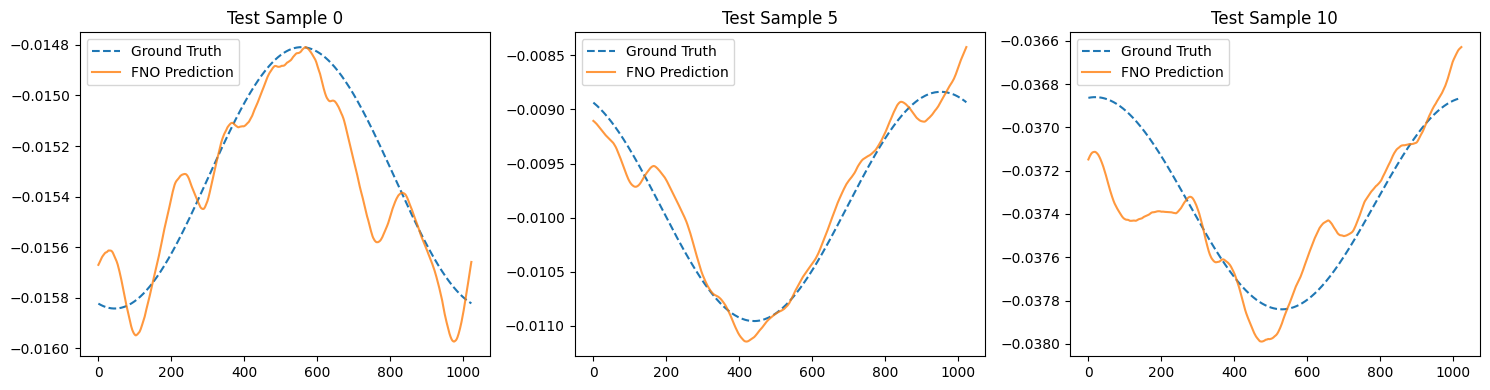
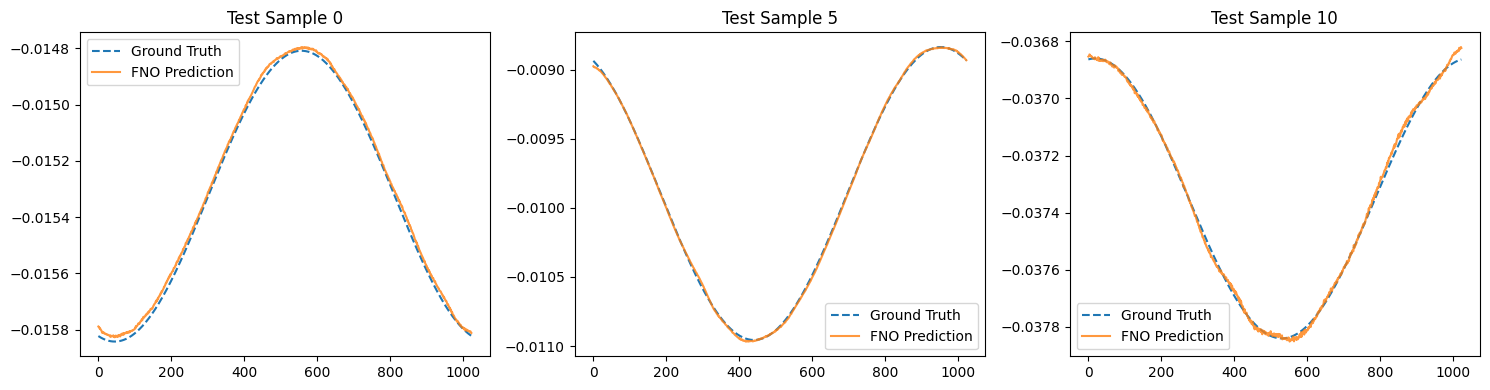
docs(examples): Update FNO prediction after spectral-model fixes

diff --git a/docs/examples/02_fno_burgers.md b/docs/examples/02_fno_burgers.md
@@ -222,30 +222,24 @@ for epoch in range(num_epochs):
 
 **Output:**
 ```bash
-Epoch 010 | loss=1.128e-01 | test rel L2=2.856e-01
-Epoch 020 | loss=3.150e-01 | test rel L2=4.586e-01
-Epoch 030 | loss=2.793e-01 | test rel L2=2.048e-01
-Epoch 040 | loss=3.851e-02 | test rel L2=1.060e-01
-Epoch 050 | loss=1.579e-01 | test rel L2=2.221e-01
-Epoch 060 | loss=1.277e-01 | test rel L2=1.172e-01
-Epoch 070 | loss=1.162e-01 | test rel L2=8.537e-02
-Epoch 080 | loss=7.651e-02 | test rel L2=1.291e-01
-Epoch 090 | loss=6.666e-02 | test rel L2=1.626e-01
-Epoch 100 | loss=1.888e-01 | test rel L2=9.952e-02
+Epoch 010 | loss=6.213e-02 | test rel L2=1.463e-01
+Epoch 020 | loss=4.651e-01 | test rel L2=2.615e-01
+Epoch 030 | loss=1.239e-01 | test rel L2=1.757e-01
+Epoch 040 | loss=2.210e-02 | test rel L2=4.644e-02
+Epoch 050 | loss=4.457e-02 | test rel L2=1.503e-01
+Epoch 060 | loss=1.005e-01 | test rel L2=9.208e-02
+Epoch 070 | loss=3.417e-02 | test rel L2=1.216e-01
 ...
-Epoch 710 | loss=1.385e-02 | test rel L2=2.693e-02
-Epoch 720 | loss=1.055e-02 | test rel L2=2.645e-02
-Epoch 730 | loss=1.144e-02 | test rel L2=2.663e-02
-Epoch 740 | loss=1.453e-02 | test rel L2=2.636e-02
-Epoch 750 | loss=1.130e-02 | test rel L2=2.634e-02
-Epoch 760 | loss=1.232e-02 | test rel L2=2.632e-02
-Epoch 770 | loss=1.546e-02 | test rel L2=2.630e-02
-Epoch 780 | loss=4.107e-02 | test rel L2=2.630e-02
-Epoch 790 | loss=1.325e-02 | test rel L2=2.630e-02
-Epoch 800 | loss=9.695e-03 | test rel L2=2.630e-02
+Epoch 740 | loss=1.155e-03 | test rel L2=2.496e-03
+Epoch 750 | loss=6.017e-04 | test rel L2=2.449e-03
+Epoch 760 | loss=1.093e-03 | test rel L2=2.435e-03
+Epoch 770 | loss=8.244e-04 | test rel L2=2.444e-03
+Epoch 780 | loss=1.055e-03 | test rel L2=2.443e-03
+Epoch 790 | loss=7.747e-04 | test rel L2=2.443e-03
+Epoch 800 | loss=6.265e-04 | test rel L2=2.443e-03
 ```
 
-Although the final test loss is far off the SOTA on this problem, the model appears to have started to learn the underlying operator.
+Although the final test loss could be improved further, the model appears to have learned the underlying operator.
 
 Lets visualize some predictions and see where we could still improve.
 
